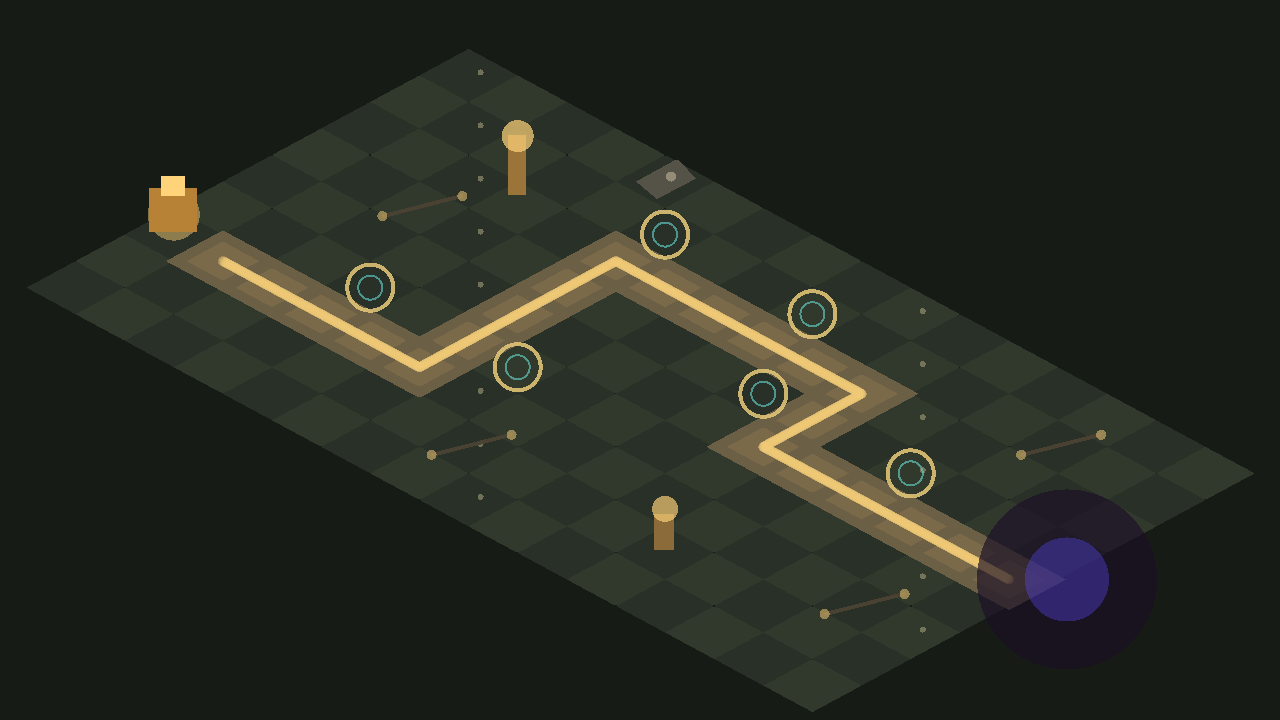
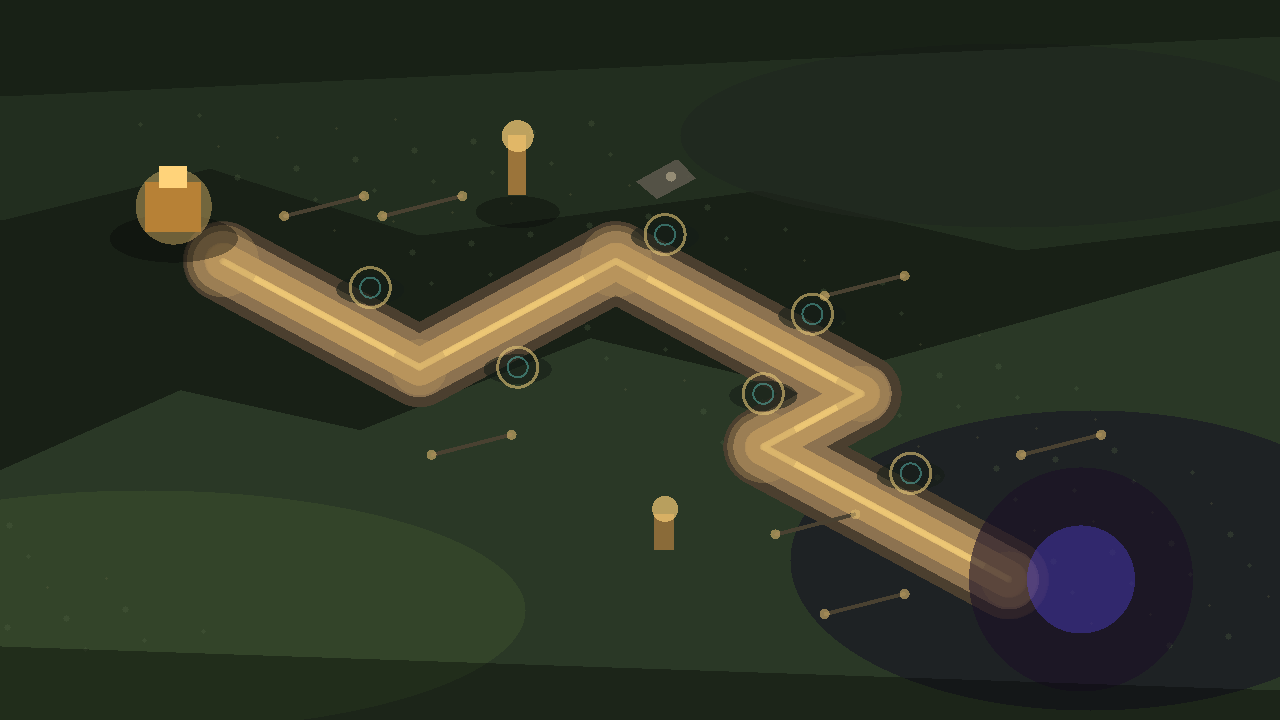
fix: render battle map as natural scene

diff --git a/frontend/app.js b/frontend/app.js
@@ -1803,7 +1803,6 @@
     if (!ctx || !m) return;
     ctx.clearRect(0, 0, m.width, m.height);
     drawBackdrop(ctx, m);
-    drawGrid(ctx);
     drawPath(ctx);
     drawDeployHints(ctx);
     drawWorldObjects(ctx);
@@ -1824,7 +1823,7 @@
       const w = board.naturalWidth * scale;
       const h = board.naturalHeight * scale;
       ctx.save();
-      ctx.globalAlpha = 0.62;
+      ctx.globalAlpha = 0.96;
       ctx.drawImage(board, (m.width - w) / 2, (m.height - h) / 2, w, h);
       ctx.restore();
     }
@@ -1834,7 +1833,7 @@
     shade.addColorStop(1, "rgba(0,0,0,0.44)");
     ctx.fillStyle = shade;
     ctx.fillRect(0, 0, m.width, m.height);
-    ctx.fillStyle = "rgba(143,124,255,.08)";
+    ctx.fillStyle = "rgba(143,124,255,.05)";
     ctx.beginPath();
     ctx.ellipse(m.width * 0.82, m.height * 0.78, 260, 150, -0.2, 0, Math.PI * 2);
     ctx.fill();
@@ -1859,21 +1858,28 @@
   }
 
   function drawPath(ctx) {
-    const m = state.battle.metrics;
-    for (const cell of pathCells()) {
-      const p = projectCell(cell.x, cell.y);
-      drawDiamond(ctx, p.x, p.y, m.tileW * 1.02, m.tileH * 1.02, "rgba(95,88,70,.52)", "rgba(188,165,106,.34)");
-    }
     const points = pathWaypoints().map((p) => projectCell(p.x, p.y));
-    ctx.strokeStyle = "rgba(255,225,161,.26)";
-    ctx.lineWidth = 4;
+    if (points.length < 2) return;
+    ctx.save();
+    ctx.lineCap = "round";
     ctx.lineJoin = "round";
+    ctx.strokeStyle = "rgba(30,25,18,.32)";
+    ctx.lineWidth = Math.max(36, state.battle.metrics.tileW * 0.46);
     ctx.beginPath();
     points.forEach((p, index) => {
       if (index === 0) ctx.moveTo(p.x, p.y);
       else ctx.lineTo(p.x, p.y);
     });
     ctx.stroke();
+    ctx.strokeStyle = "rgba(255,225,161,.2)";
+    ctx.lineWidth = 5;
+    ctx.beginPath();
+    points.forEach((p, index) => {
+      if (index === 0) ctx.moveTo(p.x, p.y);
+      else ctx.lineTo(p.x, p.y);
+    });
+    ctx.stroke();
+    ctx.restore();
   }
 
   function drawDeployHints(ctx) {
@@ -1881,26 +1887,32 @@
     const m = battle.metrics;
     for (const cell of suggestedSockets()) {
       const p = projectCell(cell.x, cell.y);
-      ctx.strokeStyle = battle.selectedTool === "basic" ? "rgba(229,200,120,.68)" : "rgba(100,210,200,.28)";
+      ctx.save();
+      ctx.fillStyle = "rgba(0,0,0,.24)";
+      ctx.beginPath();
+      ctx.ellipse(p.x, p.y + 2, m.tileW * 0.23, m.tileH * 0.28, 0, 0, Math.PI * 2);
+      ctx.fill();
+      ctx.strokeStyle = battle.selectedTool === "basic" ? "rgba(229,200,120,.5)" : "rgba(100,210,200,.22)";
       ctx.lineWidth = 2;
       ctx.beginPath();
-      ctx.ellipse(p.x, p.y, m.tileW * 0.26, m.tileH * 0.42, 0, 0, Math.PI * 2);
+      ctx.ellipse(p.x, p.y, m.tileW * 0.22, m.tileH * 0.28, 0, 0, Math.PI * 2);
       ctx.stroke();
+      ctx.restore();
     }
     const previewCell = battle.hoverCell;
     if (previewCell) {
       const p = projectCell(previewCell.x, previewCell.y);
       const tool = battle.draggingTool || battle.selectedTool;
       const valid = canPreviewToolAt(tool, previewCell);
-      drawDiamond(
-        ctx,
-        p.x,
-        p.y,
-        m.tileW * 1.1,
-        m.tileH * 1.1,
-        valid ? "rgba(100,210,200,.22)" : "rgba(255,95,83,.2)",
-        valid ? "rgba(100,210,200,.82)" : "rgba(255,95,83,.78)",
-      );
+      ctx.save();
+      ctx.fillStyle = valid ? "rgba(100,210,200,.18)" : "rgba(255,95,83,.16)";
+      ctx.strokeStyle = valid ? "rgba(100,210,200,.78)" : "rgba(255,95,83,.72)";
+      ctx.lineWidth = 3;
+      ctx.beginPath();
+      ctx.ellipse(p.x, p.y, m.tileW * 0.34, m.tileH * 0.46, 0, 0, Math.PI * 2);
+      ctx.fill();
+      ctx.stroke();
+      ctx.restore();
       ctx.save();
       ctx.globalAlpha = valid ? 0.92 : 0.42;
       if (tool === "basic") {

diff --git a/tools/media/build_map_visual_reference_pack.py b/tools/media/build_map_visual_reference_pack.py
@@ -96,6 +96,19 @@ def fill_circle(image: png_pipeline.PngImage, cx: float, cy: float, radius: floa
                 blend_pixel(image, x, y, color)
 
 
+def fill_ellipse(image: png_pipeline.PngImage, cx: float, cy: float, rx: float, ry: float, color: Color) -> None:
+    min_x = int(cx - rx - 1)
+    max_x = int(cx + rx + 1)
+    min_y = int(cy - ry - 1)
+    max_y = int(cy + ry + 1)
+    rx2 = max(1, rx * rx)
+    ry2 = max(1, ry * ry)
+    for y in range(min_y, max_y + 1):
+        for x in range(min_x, max_x + 1):
+            if ((x - cx) ** 2) / rx2 + ((y - cy) ** 2) / ry2 <= 1:
+                blend_pixel(image, x, y, color)
+
+
 def stroke_circle(image: png_pipeline.PngImage, cx: float, cy: float, radius: float, width: int, color: Color) -> None:
     outer = radius + width / 2
     inner = max(0, radius - width / 2)
@@ -238,52 +251,81 @@ def suggested_slots() -> list[tuple[int, int]]:
 
 
 def build_battle_reference(battle: dict[str, Any], path: Path) -> None:
-    image = new_image(1280, 720, rgba("171b16"))
+    image = new_image(1280, 720, rgba("182016"))
     grid = battle.get("grid", {})
     metrics = battle_metrics(image.width, image.height, grid)
     tile_w = metrics["tile_w"]
     tile_h = metrics["tile_h"]
     ox = metrics["offset_x"]
     oy = metrics["offset_y"]
-    gw = int(grid.get("width_cells", 16))
-    gh = int(grid.get("height_cells", 9))
-    for y in range(gh):
-        for x in range(gw):
-            cx, cy = project(x, y, tile_w, tile_h, ox, oy)
-            base = "343c2f" if (x + y) % 2 else "2a332b"
-            fill_polygon(image, diamond(cx, cy, tile_w * 0.98, tile_h * 0.98), rgba(base, 230))
-            if (x * 11 + y * 7) % 9 == 0:
-                fill_circle(image, cx + 12, cy - 3, 3, rgba("9d9877", 160))
+
+    # Player-facing reference art: full terrain scene, not a visible logic grid.
+    fill_polygon(
+        image,
+        [(0, 470), (180, 390), (360, 430), (590, 338), (790, 386), (1280, 250), (1280, 720), (0, 720)],
+        rgba("2f3e2a", 210),
+    )
+    fill_polygon(
+        image,
+        [(0, 0), (1280, 0), (1280, 220), (1020, 250), (760, 190), (420, 235), (210, 168), (0, 220)],
+        rgba("263323", 190),
+    )
+    fill_ellipse(image, 145, 610, 380, 120, rgba("455c31", 90))
+    fill_ellipse(image, 1010, 135, 330, 92, rgba("20271f", 160))
+    fill_ellipse(image, 1090, 560, 300, 150, rgba("161224", 145))
+
+    for i in range(170):
+        x = (i * 97 + 43) % image.width
+        y = (i * 53 + 71) % image.height
+        if 110 < y < 650:
+            color = "556847" if i % 3 else "6b6947"
+            fill_circle(image, x, y, 1 + (i % 3), rgba(color, 70))
+
     waypoints = ((battle.get("paths") or [{}])[0]).get("waypoints", [])
-    path_cells = iter_path_cells(waypoints)
-    for x, y in path_cells:
-        cx, cy = project(x, y, tile_w, tile_h, ox, oy)
-        fill_polygon(image, diamond(cx, cy, tile_w * 1.14, tile_h * 1.14), rgba("6b5f45", 255))
-        fill_polygon(image, diamond(cx, cy, tile_w * 0.72, tile_h * 0.72), rgba("8b7851", 120))
     path_points = [project(p["x"], p["y"], tile_w, tile_h, ox, oy) for p in waypoints]
     for a, b in zip(path_points, path_points[1:]):
-        draw_line(image, a, b, 10, rgba("f2cc78", 80))
+        draw_line(image, a, b, int(tile_w * 0.82), rgba("4c4030", 170))
+    for a, b in zip(path_points, path_points[1:]):
+        draw_line(image, a, b, int(tile_w * 0.62), rgba("8d7351", 245))
+    for a, b in zip(path_points, path_points[1:]):
+        draw_line(image, a, b, int(tile_w * 0.38), rgba("b9955d", 130))
+    for a, b in zip(path_points, path_points[1:]):
+        draw_line(image, a, b, 7, rgba("f2cc78", 82))
+
+    for index, (cx, cy) in enumerate(path_points):
+        fill_circle(image, cx, cy, 28 + (index % 2) * 8, rgba("b9955d", 90))
+
     for cell in suggested_slots():
         cx, cy = project(cell[0], cell[1], tile_w, tile_h, ox, oy)
-        stroke_circle(image, cx, cy, 23, 4, rgba("e5c878", 220))
-        stroke_circle(image, cx, cy, 12, 2, rgba("64d2c8", 160))
-    for x, y in [(13, 1), (11, 7), (7, 7), (4, 0), (2, 3), (14, 6)]:
+        fill_ellipse(image, cx, cy + 2, 34, 15, rgba("161d18", 150))
+        stroke_circle(image, cx, cy, 20, 3, rgba("e5c878", 150))
+        stroke_circle(image, cx, cy, 10, 2, rgba("64d2c8", 110))
+
+    for x, y in [(13, 1), (11, 7), (7, 7), (4, 0), (2, 3), (14, 6), (8, 0), (1, 4), (12, 5)]:
         cx, cy = project(x, y, tile_w, tile_h, ox, oy)
         draw_prop(image, cx, cy, (x + y) % 3)
+
     core = battle.get("core_target", {}).get("position", {"x": 1, "y": 6})
     cx, cy = project(core["x"], core["y"], tile_w, tile_h, ox, oy)
-    fill_circle(image, cx, cy - 20, 26, rgba("ffd37a", 120))
-    fill_rect(image, int(cx - 24), int(cy - 46), 48, 44, rgba("b78136", 255))
-    fill_rect(image, int(cx - 12), int(cy - 58), 24, 20, rgba("ffd37a", 255))
+    fill_ellipse(image, cx, cy + 4, 64, 24, rgba("080908", 100))
+    fill_circle(image, cx, cy - 28, 38, rgba("ffd37a", 100))
+    fill_rect(image, int(cx - 28), int(cy - 52), 56, 50, rgba("b78136", 255))
+    fill_rect(image, int(cx - 14), int(cy - 68), 28, 22, rgba("ffd37a", 255))
+
     for target in battle.get("optional_targets", []):
         pos = target.get("position", {})
         tx, ty = project(pos.get("x", 0), pos.get("y", 0), tile_w, tile_h, ox, oy)
+        fill_ellipse(image, tx, ty + 4, 42, 16, rgba("080908", 90))
         fill_rect(image, int(tx - 9), int(ty - 72), 18, 60, rgba("9b743a", 255))
         fill_circle(image, tx, ty - 72, 16, rgba("ffd37a", 180))
+
     first = waypoints[0] if waypoints else {"x": 15, "y": 4}
     sx, sy = project(first["x"], first["y"], tile_w, tile_h, ox, oy)
-    fill_circle(image, sx + 58, sy, 90, rgba("1b1026", 170))
-    fill_circle(image, sx + 58, sy, 42, rgba("5d4aff", 90))
+    fill_circle(image, sx + 72, sy, 112, rgba("1b1026", 150))
+    fill_circle(image, sx + 72, sy, 54, rgba("5d4aff", 85))
+
+    fill_polygon(image, [(0, 0), (1280, 0), (1280, 36), (0, 96)], rgba("050705", 80))
+    fill_polygon(image, [(0, 720), (0, 646), (1280, 690), (1280, 720)], rgba("050705", 95))
     png_pipeline.write_png(path, image)
 
 

diff --git a/docs/MAP_VISUAL_REFERENCE_PIPELINE_V0_1.md b/docs/MAP_VISUAL_REFERENCE_PIPELINE_V0_1.md
@@ -8,7 +8,7 @@
 
 - `strategic_control_sketch`：战略大地图控制草图，表达主城、节点、补给线、黑暗区域和威胁边界。
 - `battle_control_sketch`：战斗地图控制草图，表达路径、可部署槽位、核心、防守目标和出生方向。
-- `battle_reference_board`：更接近前端展示的伪三维战斗参考板，用于前端底图预览，也可作为后续图像模型的参考输入。
+- `battle_reference_board`：玩家侧可预览的整屏战斗场景参考图。它必须像地图场景，而不是可见的逻辑棋盘；路径、核心和落点应嵌入地形中，也可作为后续图像模型的参考输入。
 
 这些 PNG 不是最终规则数据。前端仍然以战斗配置中的网格、路径、目标、敌人、塔位规则作为运行时真相。
 
@@ -32,9 +32,9 @@ game_data/media/map_visual_reference/map_visual_reference_manifest.v0.1.json
 
 ## 前端使用方式
 
-前端读取 `map_visual_reference_manifest.v0.1.json`，将 `battle_reference_board` 作为战斗画布的视觉参考底层，然后在其上实时绘制：
+前端读取 `map_visual_reference_manifest.v0.1.json`，将 `battle_reference_board` 作为战斗画布的视觉参考底层。玩家侧不显示完整逻辑网格，只在其上实时绘制：
 
-- 逻辑格与路径
+- 路径高光
 - 核心和防守目标
 - 敌人与防御塔
 - 拖拽部署预览
@@ -50,3 +50,4 @@ game_data/media/map_visual_reference/map_visual_reference_manifest.v0.1.json
 - 核心和防守目标是否落在预期位置
 - 可部署区域是否没有被视觉元素误导
 - 黑暗区域和敌潮入口是否保留清晰辨识
+- 玩家侧是否避免出现突兀的完整平行四边形棋盘
